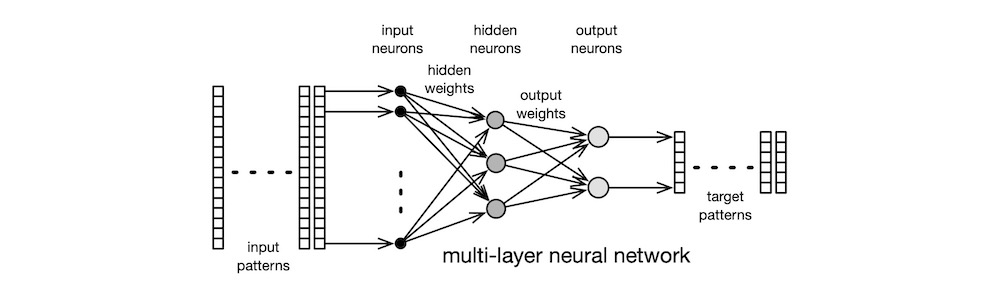
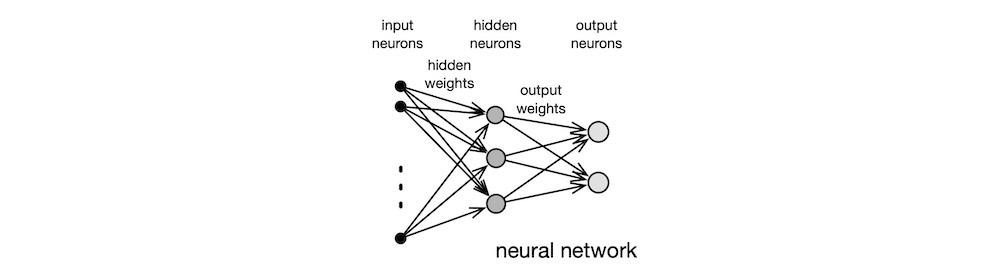
tidy

diff --git a/stem/AI/HowAIWorks.md b/stem/AI/HowAIWorks.md
@@ -31,7 +31,7 @@ So, by convention, the $o_i$ is an upstream neuron $n_i$'s output signal that ar
 
 Neurons are assembled into a neural network by arranging them in layers. Classic NNs typically used one or two layers of neurons, along with their weighted connections, as shown below. Learning involves presenting a list of input pattern vectors to the network and then modifying its connection weights in accordance with how well the network recognises each pattern. This weight adjustment method is referred as the *learning algorithm*. The final weight values produced by the algorithm encode the salient features present in the training patterns.
 
-![multi-layer neural network](../figures/AI/NeuralNetwork.jpg)
+![neural network](../figures/AI/NeuralNetwork.jpg)
 
 The two main types of learning algorithms are the supervised and the unsupervised varieties. A *supervised* learning algorithm requires the user to create a set of target (desired output) patterns, one for each input pattern, whereas an *unsupervised* learning algorithm does not require target patterns.
 
@@ -131,11 +131,9 @@ Today, DLs have all but eliminated this hurdle. Many powerful feature extraction
 
 ## *unsupervised learning*
 
-Unsupervised learning is called as such, because it does not require the user to include in the training data the desired targets. Perhaps the best known unsupervised learning algorithm is Kohonen's self-organising map (SOM).
+Unsupervised learning is called as such, because it does not require the user to include in the training data the desired targets. Perhaps the best known unsupervised learning algorithm is Kohonen's self-organising map (SOM). In simple terms, SOM is an unsupervised clustering algorithm. Its neurons are organised in an $m × n$ grid, as shown below. The input is a set of normalised pattern vectors: $I = \{i\ |\ i\ \text{is a feature vector}\}$. A pattern vector's elements are the features extracted during the earlier preprocessing phase. A pattern with $D$ elements is, thus, a vector in a $D$-dimensional vector space: $i \in R^D$. Every element of the input pattern vector is connected to every neuron via a weighted connection. Hence, a neuron $j$'s' input weights form a vector $w_j$. Obviously, the lengths of the vectors $i$ and $w_j$ are the same: $|i| = |w_j| = D$.
 
-In simple terms, SOM is an unsupervised clustering algorithm. Its neurons are organised in an $m × n$ grid, as shown below. The input is a set of normalised pattern vectors: $I = \{i\ |\ i\ \text{is a feature vector}\}$. A pattern vector's elements are the features extracted during the earlier preprocessing phase. A pattern with $D$ elements is, thus, a vector in a $D$-dimensional vector space: $i \in R^D$. Every element of the input pattern vector is connected to every neuron via a weighted connection. Hence, a neuron $j$'s' input weights form a vector $w_j$. Obviously, the lengths of the vectors $i$ and $w_j$ are the same: $|i| = |w_j| = D$.
-
-![Self-Organising Map](../figures/AI/SelfOrganisingMap.jpg)
+![self-organising map](../figures/AI/SelfOrganisingMap.jpg)
 
 All weight values in the network are initialised to small random values. During the learning phase, the network computes the distance $dist(i, w_{j})$ between an input pattern $i$ and the weight vector $w_j$ of all neurons. There are many distance measures, but a common choice is the [Euclidean distance](https://en.wikipedia.org/wiki/Euclidean_distance): $dist(i, w_j) = \sqrt{(i - w_j)^2}$. The network then chooses the neuron $n_c$, the winner, whose weights are the closest to the input pattern, and updates the weights $w_c$ with a tiny value that is proportional to the distance $d_c$, so as to nudge $w_c$ a little closer to $i$, but all other neurons' weights are left untouched. When this select-and-update process is completed for all patterns in the input data set, the network is said to have completed one *cycle* of learning. As learning progresses cycle by cycle, the pattern-neuron associations become stronger and more stable. A typical SOM requires tens of thousands of cycles to learn a sizeable data set.
 
@@ -151,7 +149,13 @@ In its day, SOM's powerful clustering abilities were used to analyse the local s
 
 Rumelhart's Backpropagation (BP) is, without doubt, the best known supervised learning algorithm. BP extends Rosenblatt's Perceptron by employing non-linear neurons in multiple layers. A classic BP network comprises three layers—input layer, hidden layer, and output layer—as shown below. For this reason, BP is sometimes referred to as a multi-layer Perceptron network. The input-layer comprises dummy neurons; they are there only to accept input vectors. The weights of the hidden-layer neurons collectively, and cumulatively, form internal representations of the input vectors. The weights of the output-layer neurons map internal representations to output values.
 
-![multi-layer neural network](../figures/AI/NeuralNetwork.jpg)
+![backpropagation](../figures/AI/Backpropagation.jpg)
+
+In keeping with the supervised learning tradition, BP's training data contains the input vectors and the associated desired outputs, the target vectors. Initially, all the weight are set to small, random values. Training comprises two distinct phases: forward pass and backward pass.
+
+In the *forward pass*, each input vector is fed to the network, and the network propagates the input toward the output, each neuron computing its output value: $o_j = f_j(i_j)$, where the transfer function $f_j$ is defined as $f_j(x) = 1 / (1 + e^{-x})$.
+
+When an input vector reaches the output layer, the *backward pass* commences. First, the error associated with the current input vector is computed: $E = ∑𝛿^2_j$, where $𝛿_j = t_j - o_j$. Learning occurs when this error is propagated backward from the output layer toward the input layer, and the weights are updated in such a way as to reduce this error.
 
 ## *deep learning*
 
